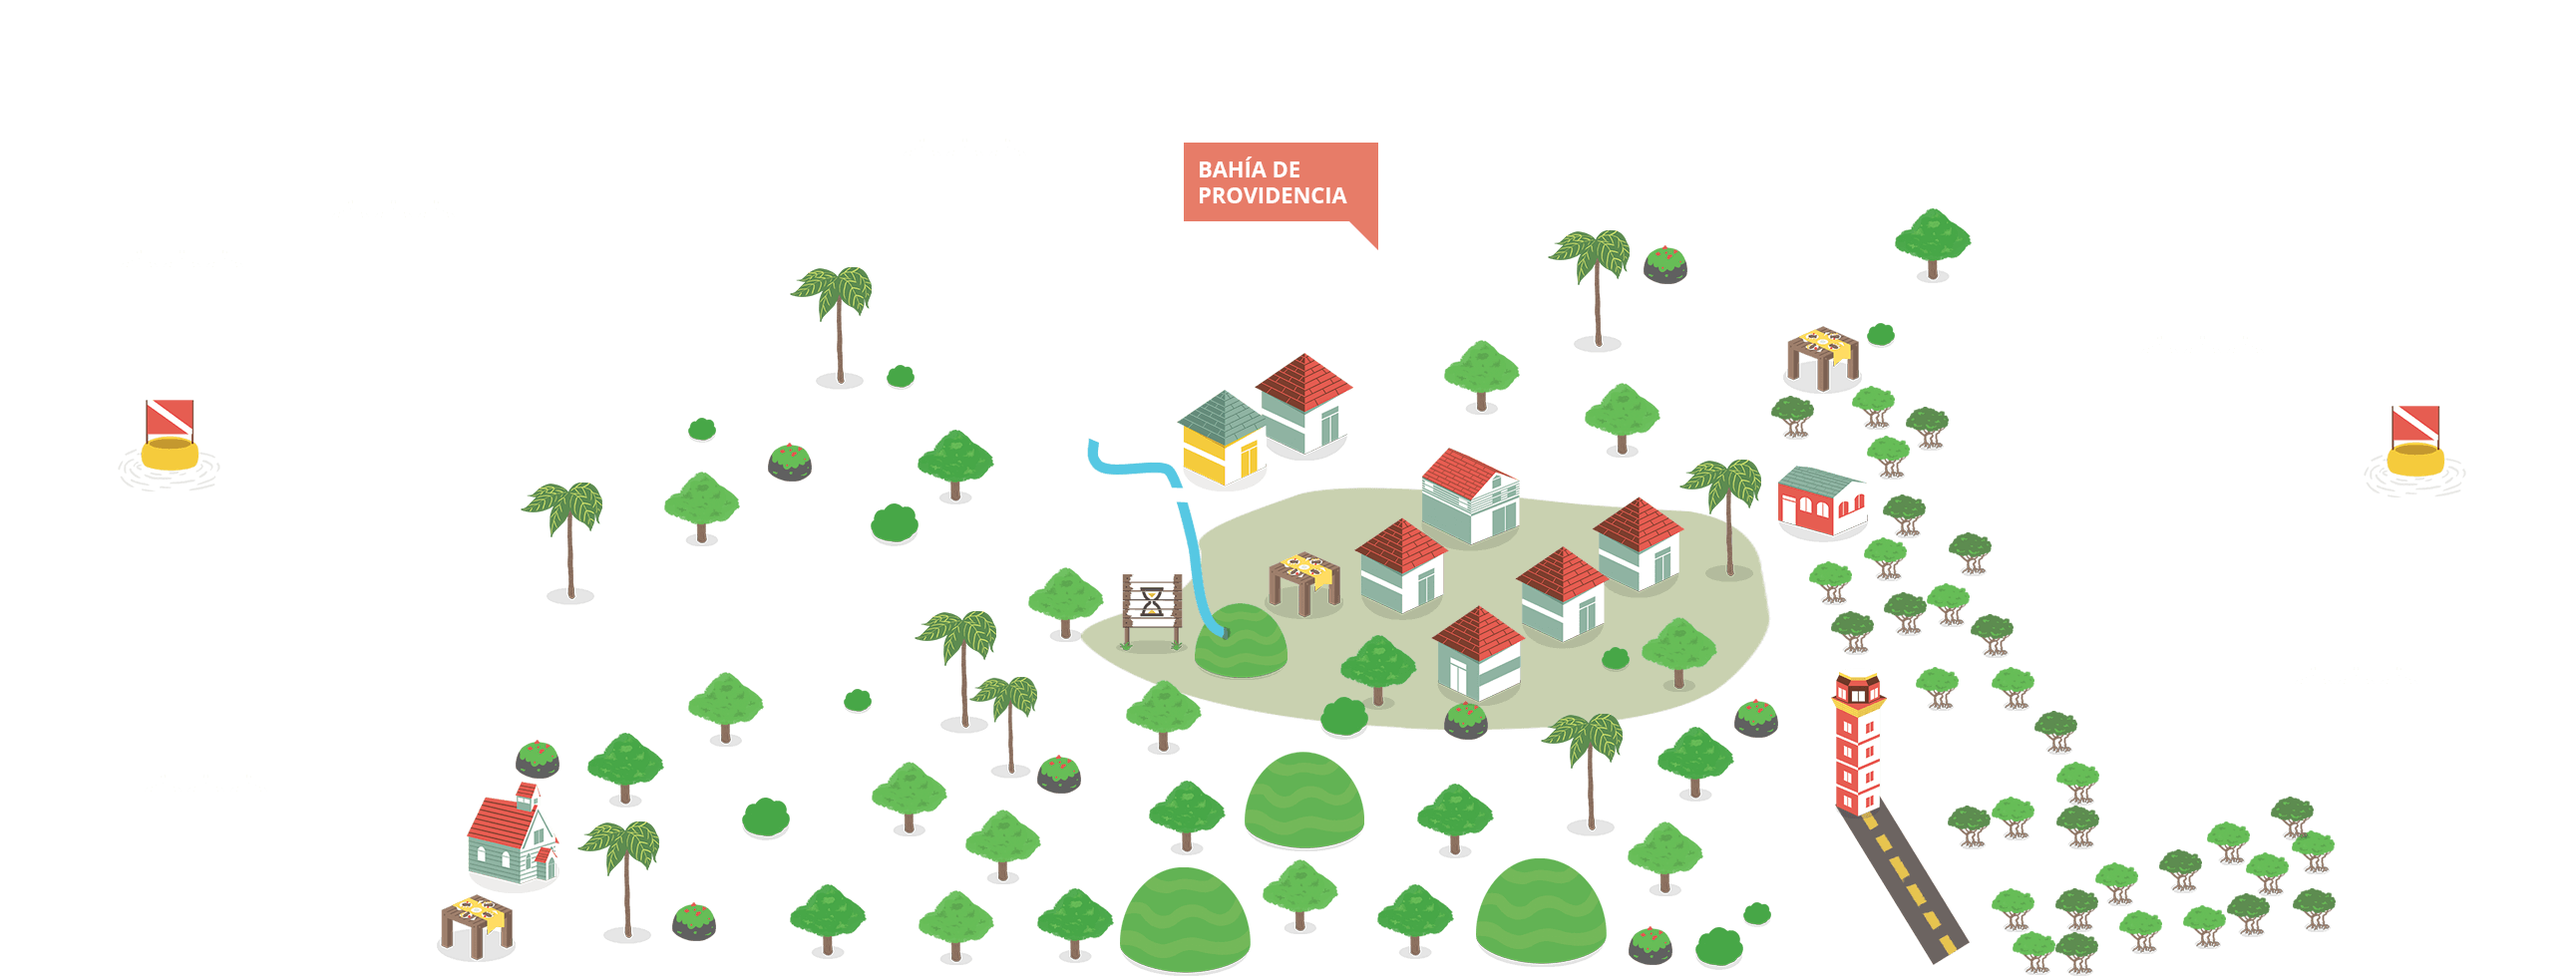
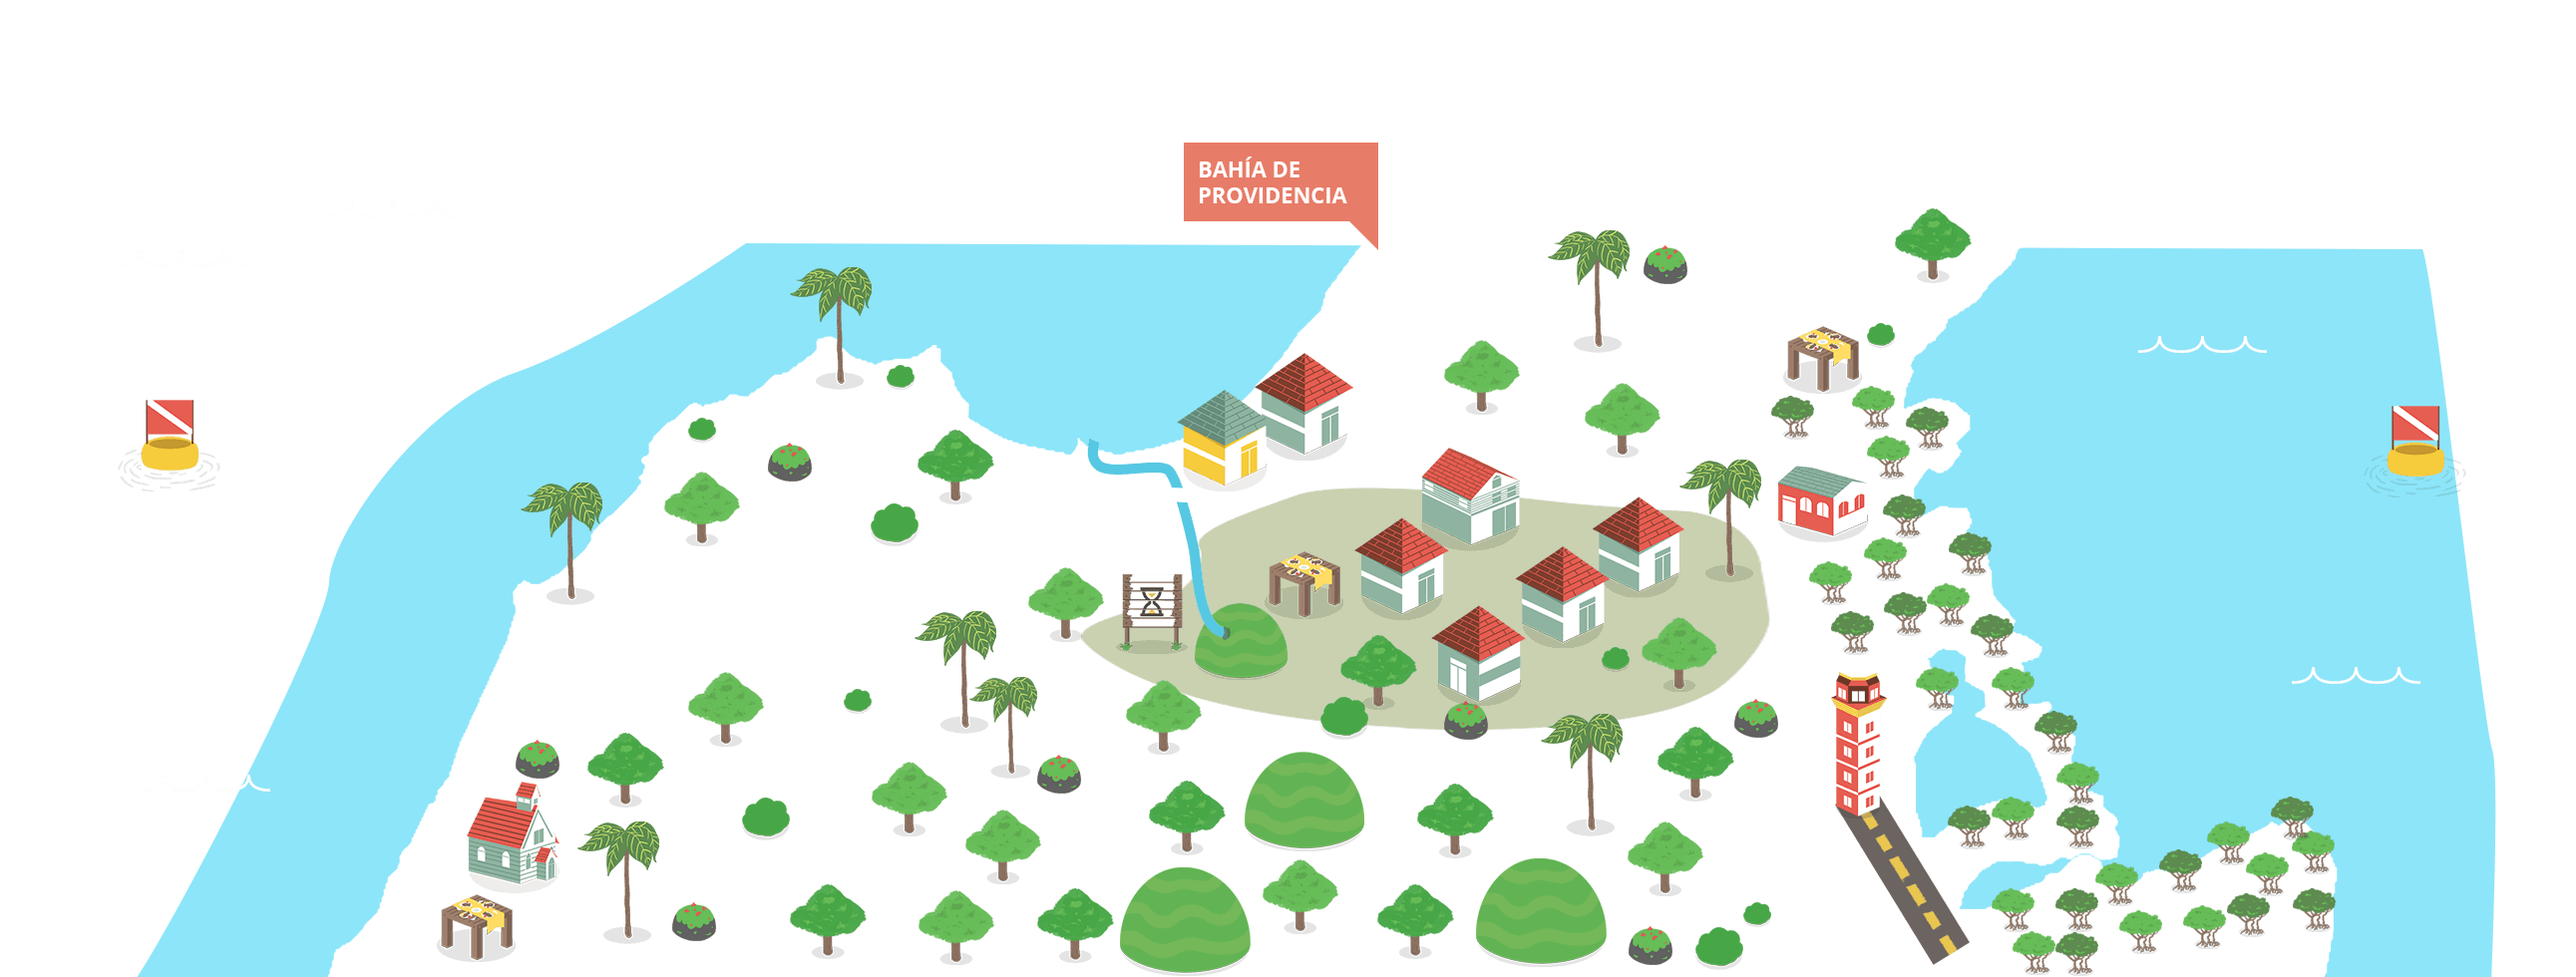
Added ocean shade

Changed region(s): [[0.7433, 0.2449, 0.9911, 1.0], [0.031, 0.2449, 0.5265, 1.0]]

diff --git a/app/service-worker.js b/app/service-worker.js
@@ -18,7 +18,6 @@ var offlineFundamentals = [
   'scripts/vendor.js',
   'fonts/fontawesome-webfont.ttf',
   'images/marker-icon.png',
-  'images/hoyoSoplador.jpg',
   'images/ubicacion.png',
   'images/intro.png',
   'images/img03.png',
